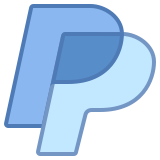
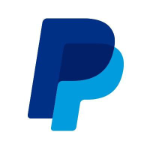
Updated some desc/images and added missing tickers

diff --git a/content/prices/index.ts b/content/prices/index.ts
@@ -2,22 +2,22 @@
 
 export interface PriceCopy {
   /**
-     * @example 'TSLA-USD'
-     */
+   * @example 'TSLA-USD'
+   */
   id: string
   /**
-     * price ticker type
-     */
+   * price ticker type
+   */
   type: 'CRYPTO' | 'FOREX' | 'COMMODITY' | 'STOCKS' | 'ETF'
   /**
-     * Icon with at least size of 100x100.png, must be symmetric.
-     * To be placed in /src/cms/prices/images/* directory.
-     * @example you can use https://icons8.com/icons/set/tesla are free because they are copyrighted images
-     */
+   * Icon with at least size of 100x100.png, must be symmetric.
+   * To be placed in /src/cms/prices/images/* directory.
+   * @example you can use https://icons8.com/icons/set/tesla are free because they are copyrighted images
+   */
   icon: string
   /**
-     * Long company name with a lot of incorporated text, affiliations, groups of companies.
-     */
+   * Long company name with a lot of incorporated text, affiliations, groups of companies.
+   */
   description: string
 }
 
@@ -184,18 +184,16 @@ export const PRICES: Record<string, PriceCopy> = {
     icon: require('./images/usdt.png'),
     description: 'Tether is a stablecoin pegged to the US Dollar. A stablecoin is a type of cryptocurrency whose value is pegged to another fiat currency like the US Dollar or to a commodity like Gold.'
   },
-
   'U-USD': {
     id: 'U-USD',
     type: 'STOCKS',
     icon: require('./images/unity.png'),
     description: 'Unity Software Inc. is an American video game software development company based in San Francisco. It was founded in Denmark in 2004 as Over the Edge Entertainment and changed its name in 2007.'
   },
-
   'TCEHY-USD': {
     id: 'TCHEY-USD',
-    type: "STOCKS",
-    icon: require('./images/amd.png'),
+    type: 'STOCKS',
+    icon: require('./images/tcehy.png'),
     description: 'Tencent Holdings Ltd., also known as Tencent, is a Chinese multinational technology conglomerate holding company. Founded in 1998, its subsidiaries globally market various Internet-related services and products, including in entertainment, artificial intelligence, and other technology'
   },
   'SEDG-USD': {
@@ -207,14 +205,14 @@ export const PRICES: Record<string, PriceCopy> = {
   'VOO-USD': {
     id: 'VOO-USD',
     type: 'ETF',
-    icon: require('./images/voo.png'),
-    description: 'Vanguard 500 Index Fund'
+    icon: require('./images/vanguard.png'),
+    description: 'Vanguard S&P 500 ETF tracks the performance of its benchmark index, the S&P 500.'
   },
   'V-USD': {
     id: 'V-USD',
     type: 'STOCKS',
     icon: require('./images/visa.png'),
-    description: 'Visa Inc. is an American multinational financial services corporation headquartered in Foster City, California, United States. It facilitates electronic funds transfers throughout the world, most commonly through Visa-branded credit cards, debit cards and prepaid cards '
+    description: 'Visa Inc. is an American multinational financial services corporation headquartered in Foster City, California, United States. It facilitates electronic funds transfers throughout the world, most commonly through Visa-branded credit cards, debit cards and prepaid cards'
   },
   'TTWO-USD': {
     id: 'TTWO-USD',
@@ -225,9 +223,9 @@ export const PRICES: Record<string, PriceCopy> = {
   },
   'TQQQ-USD': {
     id: 'TQQQ-USD',
-    type: "ETF",
-    icon: require('./images/tqqq.png'),
-    description: 'The ProShares UltraPro QQQ'
+    type: 'ETF',
+    icon: require('./images/proshares.png'),
+    description: 'The ProShares UltraPro QQQ seeks daily investment results, before fees and expenses, that correspond to three times (3x) the daily performance of the Nasdaq-100 Index.'
   },
   'TLRY-USD': {
     id: 'TLRY-USD',
@@ -239,10 +237,10 @@ export const PRICES: Record<string, PriceCopy> = {
     id: 'SNAP-USD',
     type: 'STOCKS',
     icon: require('./images/snap.png'),
-    description: "Snap Inc. is an American camera and social media company, founded on September 16, 2011, by Evan Spiegel, Bobby Murphy, and Reggie Brown based in Santa Monica, California. The company developed and maintains technological products and services, namely Snapchat, Spectacles, and Bitmoji."
+    description: 'Snap Inc. is an American camera and social media company, founded on September 16, 2011, by Evan Spiegel, Bobby Murphy, and Reggie Brown based in Santa Monica, California. The company developed and maintains technological products and services, namely Snapchat, Spectacles, and Bitmoji.'
   },
   'SQ-USD': {
-    id: 'SQ-USF',
+    id: 'SQ-USD',
     type: 'STOCKS',
     icon: require('./images/sq.png'),
     description: 'Square is an American financial services and digital payments company based in San Francisco, California. The company was founded in 2009 by Jack Dorsey and Jim McKelvey and launched its first platform in 2010.'
@@ -251,7 +249,7 @@ export const PRICES: Record<string, PriceCopy> = {
     id: 'SPY-USD',
     type: 'ETF',
     icon: require('./images/spy.png'),
-    description: 'The SPDR S&P 500 trust is an exchange-traded fund which trades on the NYSE Arca under the symbol. SPDR is an acronym for the Standard & Poor\'s Depositary Receipts, the former name of the ETF. It is designed to track the S&P 500 stock market index. This fund is the largest ETF in the world'
+    description: 'The SPDR S&P 500 trust is an exchange-traded fund which trades on the NYSE Arca under the symbol. SPDR is an acronym for the Standard & Poor\'s Depositary Receipts, the former name of the ETF. It is designed to track the S&P 500 stock market index.'
   },
   'SI-USD': {
     id: 'SI-USD',
@@ -261,127 +259,116 @@ export const PRICES: Record<string, PriceCopy> = {
   },
   'RIOT-USD': {
     id: 'RIOT-USD',
-    type: "STOCKS",
+    type: 'STOCKS',
     icon: require('./images/riot.png'),
-    description: 'iot Blockchain, Inc. is a Bitcoin mining company, supporting the Bitcoin blockchain through rapidly expanding large-scale mining in the United States. '
+    description: 'Riot Blockchain, Inc. is a Bitcoin mining company, supporting the Bitcoin blockchain through rapidly expanding large-scale mining in the United States.'
   },
   'PYPL-USD': {
     id: 'PYPL-USD',
     type: 'STOCKS',
     icon: require('./images/pypl.png'),
-    description: 'PayPal Holdings, Inc. is an American multinational financial technology company operating an online payments system in the majority of countries that support online money transfers, and serves as an electronic alternative to traditional paper methods such as checks and money orders'
+    description: 'PayPal Holdings, Inc. is an American multinational financial technology company operating an online payments system in the majority of countries that support online money transfers, and serves as an electronic alternative to traditional paper methods such as checks and money orders.'
   },
   'PLTR-USD': {
     id: 'PLTR-USD',
     type: 'STOCKS',
     icon: require('./images/pltr.png'),
-    description: 'Palantir Technologies is a public American software company that specializes in big data analytics. Headquartered in Denver, Colorado, it was founded by Peter Thiel, Nathan Gettings, Joe Lonsdale, Stephen Cohen, and Alex Karp in 2003.'
+    description: 'Palantir Technologies is a public American software company that specializes in big data analytics.'
   },
   'NTDOF-USD': {
     id: 'NTDOF-USD',
     type: 'STOCKS',
-    icon: require('./images/ntdof.png'),
-    description: 'Nintendo Co., Ltd. is a Japanese multinational consumer electronics and video game company headquartered in Kyoto, Japan. The company was founded in 1889 as Nintendo Karuta by craftsman Fusajiro Yamauchi and originally produced handmade hanafuda playing cards'
+    icon: require('./images/nintendo.png'),
+    description: 'Nintendo Co., Ltd. is a Japanese multinational consumer electronics and video game company headquartered in Kyoto, Japan.'
   },
-
   'NSRGY-USD': {
     id: 'NSRGY-USD',
-    type: "STOCKS",
-    icon: require('./images/nsrgy.png'),
+    type: 'STOCKS',
+    icon: require('./images/nestle.png'),
     description: 'Nestlé S.A. is a Swiss multinational food and drink processing conglomerate corporation headquartered in Vevey, Vaud, Switzerland. It is the largest food company in the world, measured by revenue and other metrics, since 2014.'
   },
   'SQQQ-USD': {
     id: 'SQQQ-USD',
     type: 'ETF',
-    icon: require('./images/tqqq.png'),
-    description: 'ProShares UltraPro Short QQQ'
+    icon: require('./images/proshares.png'),
+    description: 'ProShares UltraPro Short QQQ seeks daily investment results, before fees and expenses, that correspond to three times the inverse (-3x) of the daily performance of the NASDAQ-100 Index.'
   },
-
   'SOXX-USD': {
     id: 'SOXX-USD',
     type: 'ETF',
-    icon: require('./images/soxx.png'),
-    description: 'Ishares Semiconductors EFT'
+    icon: require('./images/ishares.png'),
+    description: 'iShares Semiconductors EFT seeks to track the investment results of an index composed of U.S.-listed equities in the semiconductor sector.'
   },
-
   'BABA-USD': {
     id: 'BABA-USD',
     type: 'STOCKS',
     icon: require('./images/baba.png'),
     description: 'Alibaba Group Holding Limited, also known as Alibaba Group and Alibaba.com, is a Chinese multinational technology company specializing in e-commerce, retail, Internet, and technology.'
   },
-
   'DIS-USD': {
     id: 'DIS-USD',
     type: 'STOCKS',
     icon: require('./images/dis.png'),
     description: 'The Walt Disney Company, commonly just Disney, is an American multinational entertainment and media conglomerate headquartered at the Walt Disney Studios complex in Burbank, California.'
   },
-
   'NFLX-USD': {
     id: 'NFLX-USD',
-    type: "STOCKS",
+    type: 'STOCKS',
     icon: require('./images/nflx.png'),
-    description: 'Netflix, Inc. is an American pay television over-the-top media service and original programming production company. It offers subscription-based video on demand from a library of films and television series, 40% of which is Netflix original programming produced in-house'
+    description: 'Netflix, Inc. is an American pay television over-the-top media service and original programming production company. It offers subscription-based video on demand from a library of films and television series, 40% of which is Netflix original programming produced in-house.'
   },
-
   'MA-USD': {
     id: 'MA-USD',
     type: 'STOCKS',
     icon: require('./images/ma.png'),
-    description: 'Mastercard Inc. is an American multinational financial services corporation headquartered in the Mastercard International Global Headquarters in Purchase, New York. The Global Operations Headquarters is located in O\'Fallon, Missour'
+    description: 'Mastercard Inc. is an American multinational financial services corporation headquartered in the Mastercard International Global Headquarters in Purchase, New York. The Global Operations Headquarters is located in O\'Fallon, Missour.'
   },
-
   'RBLX-USD': {
     id: 'RBLX-USD',
-    type: "STOCKS",
+    type: 'STOCKS',
     icon: require('./images/rblx.png'),
-    description: 'Roblox Corporation is an American video game developer based in San Mateo, California. Founded in 2004 by David Baszucki and Erik Cassel, the company is the developer of Roblox, which was released in 2006. '
+    description: 'Roblox Corporation is an American video game developer based in San Mateo, California. Founded in 2004 by David Baszucki and Erik Cassel, the company is the developer of Roblox, which was released in 2006.'
   },
   'MARA-USD': {
     id: 'MARA-USD',
     type: 'STOCKS',
     icon: require('./images/mara.png'),
-    description: 'Marathon Digital Holdings is a patent holding company that is the parent of Uniloc, known as a patent troll company.'
+    description: 'Marathon Digital Holdings, Inc. is a digital asset technology company, which engages in mining cryptocurrencies, with a focus on the blockchain ecosystem and the generation of digital assets. '
   },
-
   'MCHI-USD': {
     id: 'MCHI-USD',
     type: 'ETF',
-    icon: require('./images/soxx.png'),
-    description: 'iShares MSCI China ETF'
+    icon: require('./images/ishares.png'),
+    description: 'iShares MSCI China ETF seeks to track the investment results of an index composed of Chinese equities that are available to international investors.'
   },
-
   'EEM-USD': {
     id: 'EEM-USD',
     type: 'ETF',
-    icon: require('./images/soxx.png'),
-    description: 'iShares MSCI Emerging Markets ETF'
+    icon: require('./images/ishares.png'),
+    description: 'iShares MSCI Emerging Markets ETF seeks to track the investment results of an index composed of large- and mid-capitalization emerging market equities.'
   },
-
   'NLLSF-USD': {
     id: 'NLLSF-USD',
     type: 'STOCKS',
     icon: require('./images/nllsf.png'),
     description: 'Nel ASA is a Norwegian company founded in 1998 and based in Oslo. Nel is a global company providing solutions for the production, storage and distribution of hydrogen from renewable energy sources. Nel is listed in the OBX Index of the Oslo Stock Exchange.'
   },
-
   'GLO-USD': {
     id: 'GLO-USD',
     type: 'ETF',
     icon: require('./images/glo.png'),
-    description: 'Clough Global Opportunities Fund'
+    description: 'Clough Global Opportunities Fund is a diversified, closed-end management investment company. The Fund\'s investment objective is to provide a high level of total return. It seeks to achieve its objective by applying a fundamental research-driven investment process.'
   },
   'KRBN-USD': {
     id: 'KRBN-USD',
     type: 'ETF',
     icon: require('./images/krbn.png'),
-    description: 'KraneShares Global Carbon ETF'
+    description: 'KraneShares Global Carbon ETF seeks to provide a total return that, before fees and expenses, exceeds that of the IHS Markit Global Carbon Index over a complete market cycle.'
   },
   'PATH-USD': {
     id: 'PATH-USD',
     type: 'STOCKS',
-    icon: require('./images/path.png'),
+    icon: require('./images/uipath.png'),
     description: 'UiPath is an American global software company for robotic process automation founded in Romania by Daniel Dines and Marius Tîrcă and headquartered in New York City'
   },
   'MSFT-USD': {
@@ -393,78 +380,86 @@ export const PRICES: Record<string, PriceCopy> = {
   'INTC-USD': {
     id: 'INTC-USD',
     type: 'STOCKS',
-    icon: require('./images/intl.png'),
+    icon: require('./images/intc.png'),
     description: 'Intel Corporation is an American multinational corporation and technology company headquartered in Santa Clara, California. It is the world\'s largest semiconductor chip manufacturer by revenue, and is the developer of the x86 series of microprocessors, the processors found in most personal computers.'
   },
-
   'SQNXF-USD': {
     id: 'SQNXF-USD',
     type: 'STOCKS',
     icon: require('./images/sqnxf.png'),
     description: 'Square Enix Holdings Co., Ltd. is a Japanese entertainment conglomerate and video game company, best known for its Final Fantasy, Dragon Quest and Kingdom Hearts role-playing video game franchises, among numerous others.'
   },
-
   'SOXS-USD': {
     id: 'SOXS-USD',
     type: 'ETF',
-    icon: require('./images/soxl.png'),
-    description: 'The Direxion Daily Semiconductor Bear'
+    icon: require('./images/direxion.png'),
+    description: 'The Direxion Daily Semiconductor Bear seeks daily investment results, before fees and expenses, of 300% of the inverse of the daily performance of the PHLX Semiconductor Sector Index.'
   },
-
   'SOXL-USD': {
     id: 'SOXL-USD',
     type: 'ETF',
-    icon: require('./images/soxl.png'),
-    description: 'The Direxion Daily Semiconductor Bull'
+    icon: require('./images/direxion.png'),
+    description: 'The Direxion Daily Semiconductor seeks daily investment results, before fees and expenses, of 300% of the daily performance of the PHLX Semiconductor Sector Index.'
   },
-
   'QQQ-USD': {
     id: 'QQQ-USD',
     type: 'ETF',
-    icon: require('./images/intl.png'),
-    description: 'Invesco QQQ Trust Series 1'
+    icon: require('./images/invesco.png'),
+    description: 'Invesco QQQ Trust Series 1 seeks investment results that generally correspond to the price and yield performance of the NASDAQ-100 Index'
   },
-
   'LZAGY-USD': {
     id: 'LZAGY-USD',
     type: 'STOCKS',
     icon: require('./images/lzagy.png'),
     description: 'Lonza Group is a Swiss multinational chemicals and biotechnology company, headquartered in Basel, with major facilities in Europe, North America and South Asia. Lonza was established under that name in the late 19th-century in Switzerland.'
   },
-
   'CQQQ-USD': {
     id: 'CQQQ-USD',
     type: 'ETF',
-    icon: require('./images/intl.png'),
-    description: 'Invesco China Technology ETF'
+    icon: require('./images/invesco.png'),
+    description: 'Invesco China Technology ETF seeks to track the investment results (before fees and expenses) of the FTSE China Incl A 25% Technology Capped Index.'
   },
-
   'BYDDF-USD': {
     id: 'BYDDF-USD',
     type: 'STOCKS',
     icon: require('./images/byddf.png'),
     description: 'BYD Co. Ltd. is a Chinese manufacturing company headquartered in Shenzhen, Guangdong, founded by Wang Chuanfu in February 1995. It has two major subsidiaries, BYD Automobile and BYD Electronic.'
   },
-
   'ARKX-USD': {
     id: 'ARKX-USD',
     type: 'ETF',
-    icon: require('./images/arkx.png'),
-    description: 'ARK Space Exploration & Innovation ETF'
+    icon: require('./images/ark.png'),
+    description: 'ARK Space Exploration & Innovation ETF seeks long-term growth of capital by investing under normal circumstances primarily (at least 80% of its assets) in domestic and foreign equity securities of companies that are engaged in the Fund’s investment theme of Space Exploration and innovation.'
   },
-
   'ARKW-USD': {
     id: 'ARKW-USD',
     type: 'ETF',
-    icon: require('./images/arkx.png'),
-    description: 'ARK Next Generation Internet ETF'
+    icon: require('./images/ark.png'),
+    description: 'ARK Next Generation Internet ETF seeks long-term growth of capital by investing under normal circumstances primarily (at least 80% of its assets) in domestic and U.S. exchange-traded foreign equity securities of companies that are relevant to the Fund’s investment theme of next generation internet.'
   },
-
   'ARKQ-USD': {
     id: 'ARKQ-USD',
     type: 'ETF',
-    icon: require('./images/arkx.png'),
-    description: 'ARK Autonomous Technology & Robotics ETF'
+    icon: require('./images/ark.png'),
+    description: 'ARK Autonomous Technology & Robotics ETF seeks long-term growth of capital by investing under normal circumstances primarily (at least 80% of its assets) in domestic and foreign equity securities of autonomous technology and robotics companies that are relevant to the Fund’s investment theme of disruptive innovation.'
+  },
+  'ARKF-USD': {
+    id: 'ARKF-USD',
+    type: 'ETF',
+    icon: require('./images/ark.png'),
+    description: 'ARK Fintech Innovation ETF eeks long-term growth of capital. It seeks to achieve this investment objective by investing under normal circumstances primarily (at least 80% of its assets) in domestic and foreign equity securities of companies that are engaged in the Fund’s investment theme of financial technology (“Fintech”) innovation.'
+  },
+  'ARKK-USD': {
+    id: 'ARKK-USD',
+    type: 'ETF',
+    icon: require('./images/ark.png'),
+    description: 'ARK Innovation ETF seeks long-term growth of capital by investing under normal circumstances primarily (at least 65% of its assets) in domestic and foreign equity securities of companies that are relevant to the Fund’s investment theme of disruptive innovation.'
+  },
+  'ARKG-USD': {
+    id: 'ARKG-USD',
+    type: 'ETF',
+    icon: require('./images/ark.png'),
+    description: 'ARK Genomic Revolution ETF seeks long-term growth of capital by investing under normal circumstances primarily (at least 80% of its assets) in domestic and foreign equity securities of companies across multiple sectors, including health care, information technology, materials, energy, and consumer discretionary, that are relevant to the Fund’s investment theme of the genomics revolution.'
   }
 }
 
